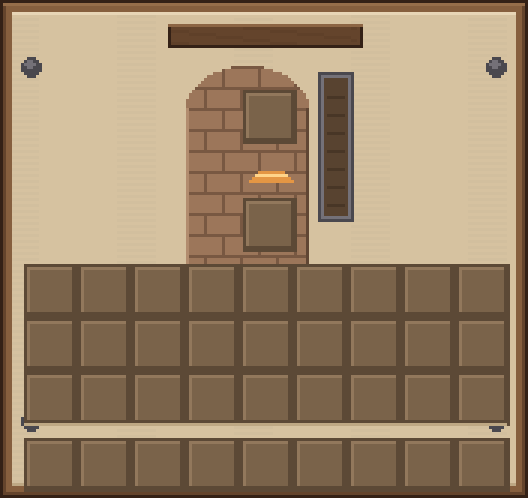
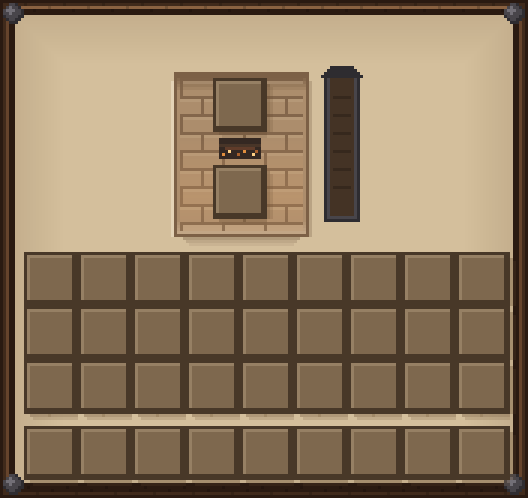
art: redraw the furnace GUI on an explicit grid, and keep the script in the repo
The first texture was misaligned: the niche and the progress bar were placed
by eye, rivets sat in random spots, and there was dead space to the right of
the bar. Everything now comes off one grid — niche 58..102 (centre 80), slots
71..88 with equal 13px clay margins, bar 110..118, and the group 58..117
centred on the 176px canvas. The script asserts those numbers, so nudging a
constant cannot silently break the alignment.

Two real bugs found while rewriting:

- ImageDraw on RGBA does not alpha-blend, it overwrites the pixel and its
  alpha. Translucent shadows drawn that way came out as a solid bright bar
  under the niche. Canvas is RGB now and translucent effects go through a
  hand-written blend().
- A periodic formula for paper grain drew visible diagonal stripes across the
  whole window. Removed; the only texture left is a gradient-based vignette
  and the material shading inside the niche.

Also: warmer slot floor (the muddy brown read as dirt), a drop shadow under
every slot so the grid sits on the page, and the coals moved inside the
firebox mouth instead of poking into the wall.

tools/draw_cozy_furnace.py regenerates the PNG; it is checked in because the
layout has to follow the menu slot coordinates.

diff --git a/eternal-snow-1.20.1/tools/draw_cozy_furnace.py b/eternal-snow-1.20.1/tools/draw_cozy_furnace.py
@@ -1,0 +1,237 @@
+#!/usr/bin/env python3
+"""
+Draws the Eternal Snow furnace GUI texture. Deterministic: every pixel is placed by an
+explicit rule, there is no generated art anywhere in this file.
+
+Run from the repository root:
+
+    python3 tools/draw_cozy_furnace.py
+
+Requires Pillow. Output:
+    src/main/resources/assets/eternalsnow/textures/gui/cozy_furnace.png
+    ../../docs/furnace-gui-preview.png   (3x nearest-neighbour, for review)
+
+Why a script instead of a PNG in a paint program: the layout has to match the slot
+coordinates in the menu to the pixel, and it has to be re-derivable when those coordinates
+move. Change a constant below and the texture follows.
+
+Two traps this file documents, both hit during development:
+
+  * ImageDraw on an RGBA image does NOT alpha-blend — it overwrites the pixel and its alpha.
+    Translucent shadows drawn directly on RGBA came out as solid bright bars. The canvas is
+    therefore RGB and every translucent effect goes through blend().
+  * A periodic formula for "paper grain" (`(y*3 + x//11) % 7`) produced visible diagonal
+    stripes across the whole window. Texture that repeats every few pixels reads as a moire
+    pattern, not as material, so the grain below is either integrated into a gradient or
+    left out entirely.
+
+Geometry (texture pixels, 176x166 — the vanilla container canvas):
+
+    niche        58..102 x 24..78      centre (80, 51)
+    input slot   71..88  x 26..43      one portion only, no result slot
+    embers       73..86  x 46..52      firebox mouth between the two slots
+    fuel slot    71..88  x 55..72
+    progress     108..119 x 24..73     iron-framed vertical track, 8 wide
+    group        58..119               centre 88.5 frames the 176px canvas
+    inventory    8..169  x 84..141     9x3, 18px pitch, vanilla offsets
+    hotbar       8..169  x 142..159
+"""
+from pathlib import Path
+
+from PIL import Image, ImageDraw
+
+W, H = 176, 166
+
+# ---- palette: warm throughout. Nothing blue-grey: the mod is a winter mod, but the
+# ---- furnace interior is the one warm place in it, and cool greys killed that.
+FRAME_OUT = (42, 26, 17)
+FRAME_DK  = (64, 42, 27)
+FRAME_MID = (102, 68, 44)
+FRAME_HI  = (138, 98, 65)
+
+PARCH     = (212, 191, 156)
+PARCH_HI  = (231, 213, 180)
+PARCH_LO  = (184, 160, 124)
+
+NICHE     = (172, 141, 108)
+NICHE_DK  = (124, 96, 70)
+NICHE_HI  = (194, 166, 134)
+
+SLOT      = (126, 104, 78)
+SLOT_EDGE = (72, 56, 40)
+SLOT_HI   = (150, 128, 100)
+
+IRON      = (72, 69, 74)
+IRON_HI   = (114, 111, 118)
+IRON_DK   = (46, 44, 48)
+
+EMBER     = (224, 142, 62)
+EMBER_HI  = (255, 208, 132)
+EMBER_LO  = (168, 96, 44)
+ASH       = (52, 40, 34)
+
+img = Image.new("RGB", (W, H), PARCH)
+d = ImageDraw.Draw(img)
+px = img.load()
+
+
+def blend(x, y, c, a):
+    """Manual alpha blend — ImageDraw would overwrite instead."""
+    if not (0 <= x < W and 0 <= y < H):
+        return
+    r, g, b = px[x, y]
+    px[x, y] = (int(r + (c[0] - r) * a), int(g + (c[1] - g) * a), int(b + (c[2] - b) * a))
+
+
+def rect(x0, y0, x1, y1, c):
+    d.rectangle([x0, y0, x1, y1], fill=c)
+
+
+def vgrad(x0, y0, x1, y1, top, bottom):
+    """Vertical gradient — one colour per row, no per-pixel call."""
+    span = max(1, y1 - y0)
+    for y in range(y0, y1 + 1):
+        t = (y - y0) / span
+        d.line([(x0, y), (x1, y)],
+               fill=(int(top[0] + (bottom[0] - top[0]) * t),
+                     int(top[1] + (bottom[1] - top[1]) * t),
+                     int(top[2] + (bottom[2] - top[2]) * t)))
+
+
+# =============================================================== wooden frame
+rect(0, 0, W - 1, H - 1, FRAME_OUT)
+rect(1, 1, W - 2, H - 2, FRAME_DK)
+rect(2, 2, W - 3, H - 3, FRAME_MID)
+rect(2, 2, W - 3, 2, FRAME_HI)              # lit outer edge
+rect(2, H - 3, W - 3, H - 3, FRAME_OUT)     # shaded outer edge
+rect(3, 3, W - 4, H - 4, FRAME_OUT)         # inner shadow line
+rect(5, 5, W - 6, H - 6, PARCH)
+
+# grain on the wooden band only, sparse and irregular
+for y in list(range(1, 4)) + list(range(H - 4, H - 1)):
+    for x in range(1, W - 1):
+        if (x + y * 5) % 13 == 0:
+            blend(x, y, (0, 0, 0), 0.16)
+
+# the page darkens toward the frame, so it does not read as one flat plane
+for y in range(5, H - 5):
+    for x in range(5, W - 5):
+        edge = min(x - 5, y - 5, W - 6 - x, H - 6 - y)
+        if edge < 16:
+            blend(x, y, (120, 94, 66), (16 - edge) / 16.0 * 0.16)
+
+# ====================================================================== rivets
+for cx, cy in [(4, 4), (W - 5, 4), (4, H - 5), (W - 5, H - 5)]:
+    d.ellipse([cx - 3, cy - 3, cx + 3, cy + 3], fill=IRON_DK)
+    d.ellipse([cx - 3, cy - 3, cx + 2, cy + 2], fill=IRON)
+    d.ellipse([cx - 2, cy - 2, cx, cy], fill=IRON_HI)
+
+# ======================================================================= niche
+NX0, NX1, NY0, NY1 = 58, 102, 24, 78
+
+# contact shadow under the niche, light catching its left edge
+for i, a in enumerate((0.30, 0.18, 0.09)):
+    for x in range(NX0 + 3 + i, NX1 - 2 - i):
+        blend(x, NY1 + 1 + i, (92, 68, 46), a)
+for y in range(NY0 + 3, NY1 + 1):
+    blend(NX1 + 1, y, (92, 68, 46), 0.22)
+    blend(NX0 - 1, y, (255, 246, 226), 0.38)
+
+rect(NX0, NY0, NX1, NY1, NICHE_DK)
+rect(NX0 + 1, NY0 + 1, NX1 - 1, NY1 - 1, NICHE)
+vgrad(NX0 + 1, NY0 + 1, NX1 - 1, NY0 + 6, NICHE_DK, NICHE)   # it is a recess: dark at the top
+vgrad(NX0 + 1, NY1 - 5, NX1 - 1, NY1 - 1, NICHE, NICHE_HI)   # lit lip at the bottom
+
+# clay masonry: 6px courses, joints staggered, contrast kept low so the slots stay
+# the darkest thing in the panel
+for y in range(NY0 + 2, NY1 - 1):
+    course = (y - (NY0 + 2)) // 6
+    if (y - (NY0 + 2)) % 6 == 0:
+        for x in range(NX0 + 2, NX1 - 1):
+            blend(x, y, NICHE_DK, 0.85)
+        continue
+    for x in range(NX0 + 2, NX1 - 1):
+        if (x - (NX0 + 2) + (course % 2) * 7) % 14 == 0:
+            blend(x, y, NICHE_DK, 0.85)
+        elif (y - (NY0 + 2)) % 6 == 1:
+            blend(x, y, NICHE_HI, 0.45)
+
+# firelight pooling in the recess, strongest just above the fuel slot
+for y in range(NY0 + 2, NY1 - 1):
+    for x in range(NX0 + 2, NX1 - 1):
+        t = 1.0 - abs(y - (NY1 - 13)) / 22.0
+        if t > 0:
+            blend(x, y, (255, 186, 118), t * 0.16)
+
+
+def slot(x, y, size=18):
+    # drop shadow first, so the grid sits ON the page instead of floating
+    for i, a in enumerate((0.34, 0.18)):
+        for xx in range(x + 2 + i, x + size):
+            blend(xx, y + size + i, (104, 78, 52), a)
+        for yy in range(y + 2 + i, y + size):
+            blend(x + size + i, yy, (104, 78, 52), a)
+    rect(x, y, x + size - 1, y + size - 1, SLOT_EDGE)
+    rect(x + 1, y + 1, x + size - 2, y + size - 2, SLOT)
+    rect(x + 1, y + 1, x + size - 2, y + 1, SLOT_HI)
+    rect(x + 1, y + 1, x + 1, y + size - 2, SLOT_HI)
+    rect(x + size - 2, y + 1, x + size - 2, y + size - 2, SLOT_EDGE)
+    rect(x + 1, y + size - 2, x + size - 2, y + size - 2, SLOT_EDGE)
+
+
+SX = 71
+slot(SX, 26)                     # input  — one portion, no result slot
+slot(SX, 55)                     # fuel
+
+# firebox mouth between the slots
+rect(SX + 2, 46, SX + 15, 52, ASH)
+for ex, ey, c in [(SX + 3, 51, EMBER), (SX + 5, 50, EMBER_HI), (SX + 8, 51, EMBER_LO),
+                  (SX + 10, 50, EMBER), (SX + 13, 51, EMBER_HI), (SX + 14, 50, EMBER_LO)]:
+    blend(ex, ey, c, 1.0)
+d.line([(SX + 4, 49), (SX + 13, 49)], fill=(96, 60, 42))
+for x in range(SX + 2, SX + 16):        # warm haze rising off the coals
+    blend(x, 48, (255, 170, 100), 0.10)
+
+# ================================================================ progress bar
+BX, BY, BW, BH = 110, 26, 8, 46
+rect(BX - 2, BY - 2, BX + BW + 1, BY + BH + 1, IRON_DK)
+rect(BX - 1, BY - 1, BX + BW, BY + BH, IRON)
+rect(BX - 1, BY - 1, BX + BW, BY - 1, IRON_HI)
+rect(BX, BY, BX + BW - 1, BY + BH - 1, (68, 51, 37))
+for i in range(1, 7):
+    d.line([(BX + 1, BY + i * 6), (BX + BW - 2, BY + i * 6)], fill=(54, 40, 29))
+for i in range(4):                      # arrow cap pointing down into the track
+    d.line([(BX - i, BY - 4 + i), (BX + BW - 1 + i, BY - 4 + i)], fill=IRON_DK)
+
+# ==================================================================== inventory
+INV_X, INV_Y, HOT_Y = 8, 84, 142
+for row in range(3):
+    for col in range(9):
+        slot(INV_X + col * 18, INV_Y + row * 18)
+for col in range(9):
+    slot(INV_X + col * 18, HOT_Y)
+for col in range(9):
+    blend(INV_X + col * 18 + 8, HOT_Y - 4, (150, 126, 92), 0.55)
+
+# ========================================================================= output
+here = Path(__file__).resolve().parent
+root = here.parent
+
+texture = root / "src/main/resources/assets/eternalsnow/textures/gui/cozy_furnace.png"
+texture.parent.mkdir(parents=True, exist_ok=True)
+img.convert("RGBA").save(texture)
+
+docs = root.parent / "docs"
+docs.mkdir(exist_ok=True)
+img.resize((W * 3, H * 3), Image.NEAREST).save(docs / "furnace-gui-preview.png")
+
+print(f"wrote {texture.relative_to(root.parent)}")
+print(f"wrote docs/furnace-gui-preview.png")
+
+# ---- geometry self-check: fails loudly if a constant above is nudged out of line ----
+assert (NX0 + NX1) / 2 == 80, "niche is not centred on x=80"
+assert (NX0 + BX + BW - 1) / 2 == (W - 1) / 2, "cooking group is not centred on the canvas"
+assert INV_X + 8 * 18 + 17 <= W - 6, "inventory runs into the frame"
+assert HOT_Y + 17 <= H - 6, "hotbar runs into the frame"
+assert BX - 2 > NX1, "progress bar overlaps the niche"
+print("geometry ok")
